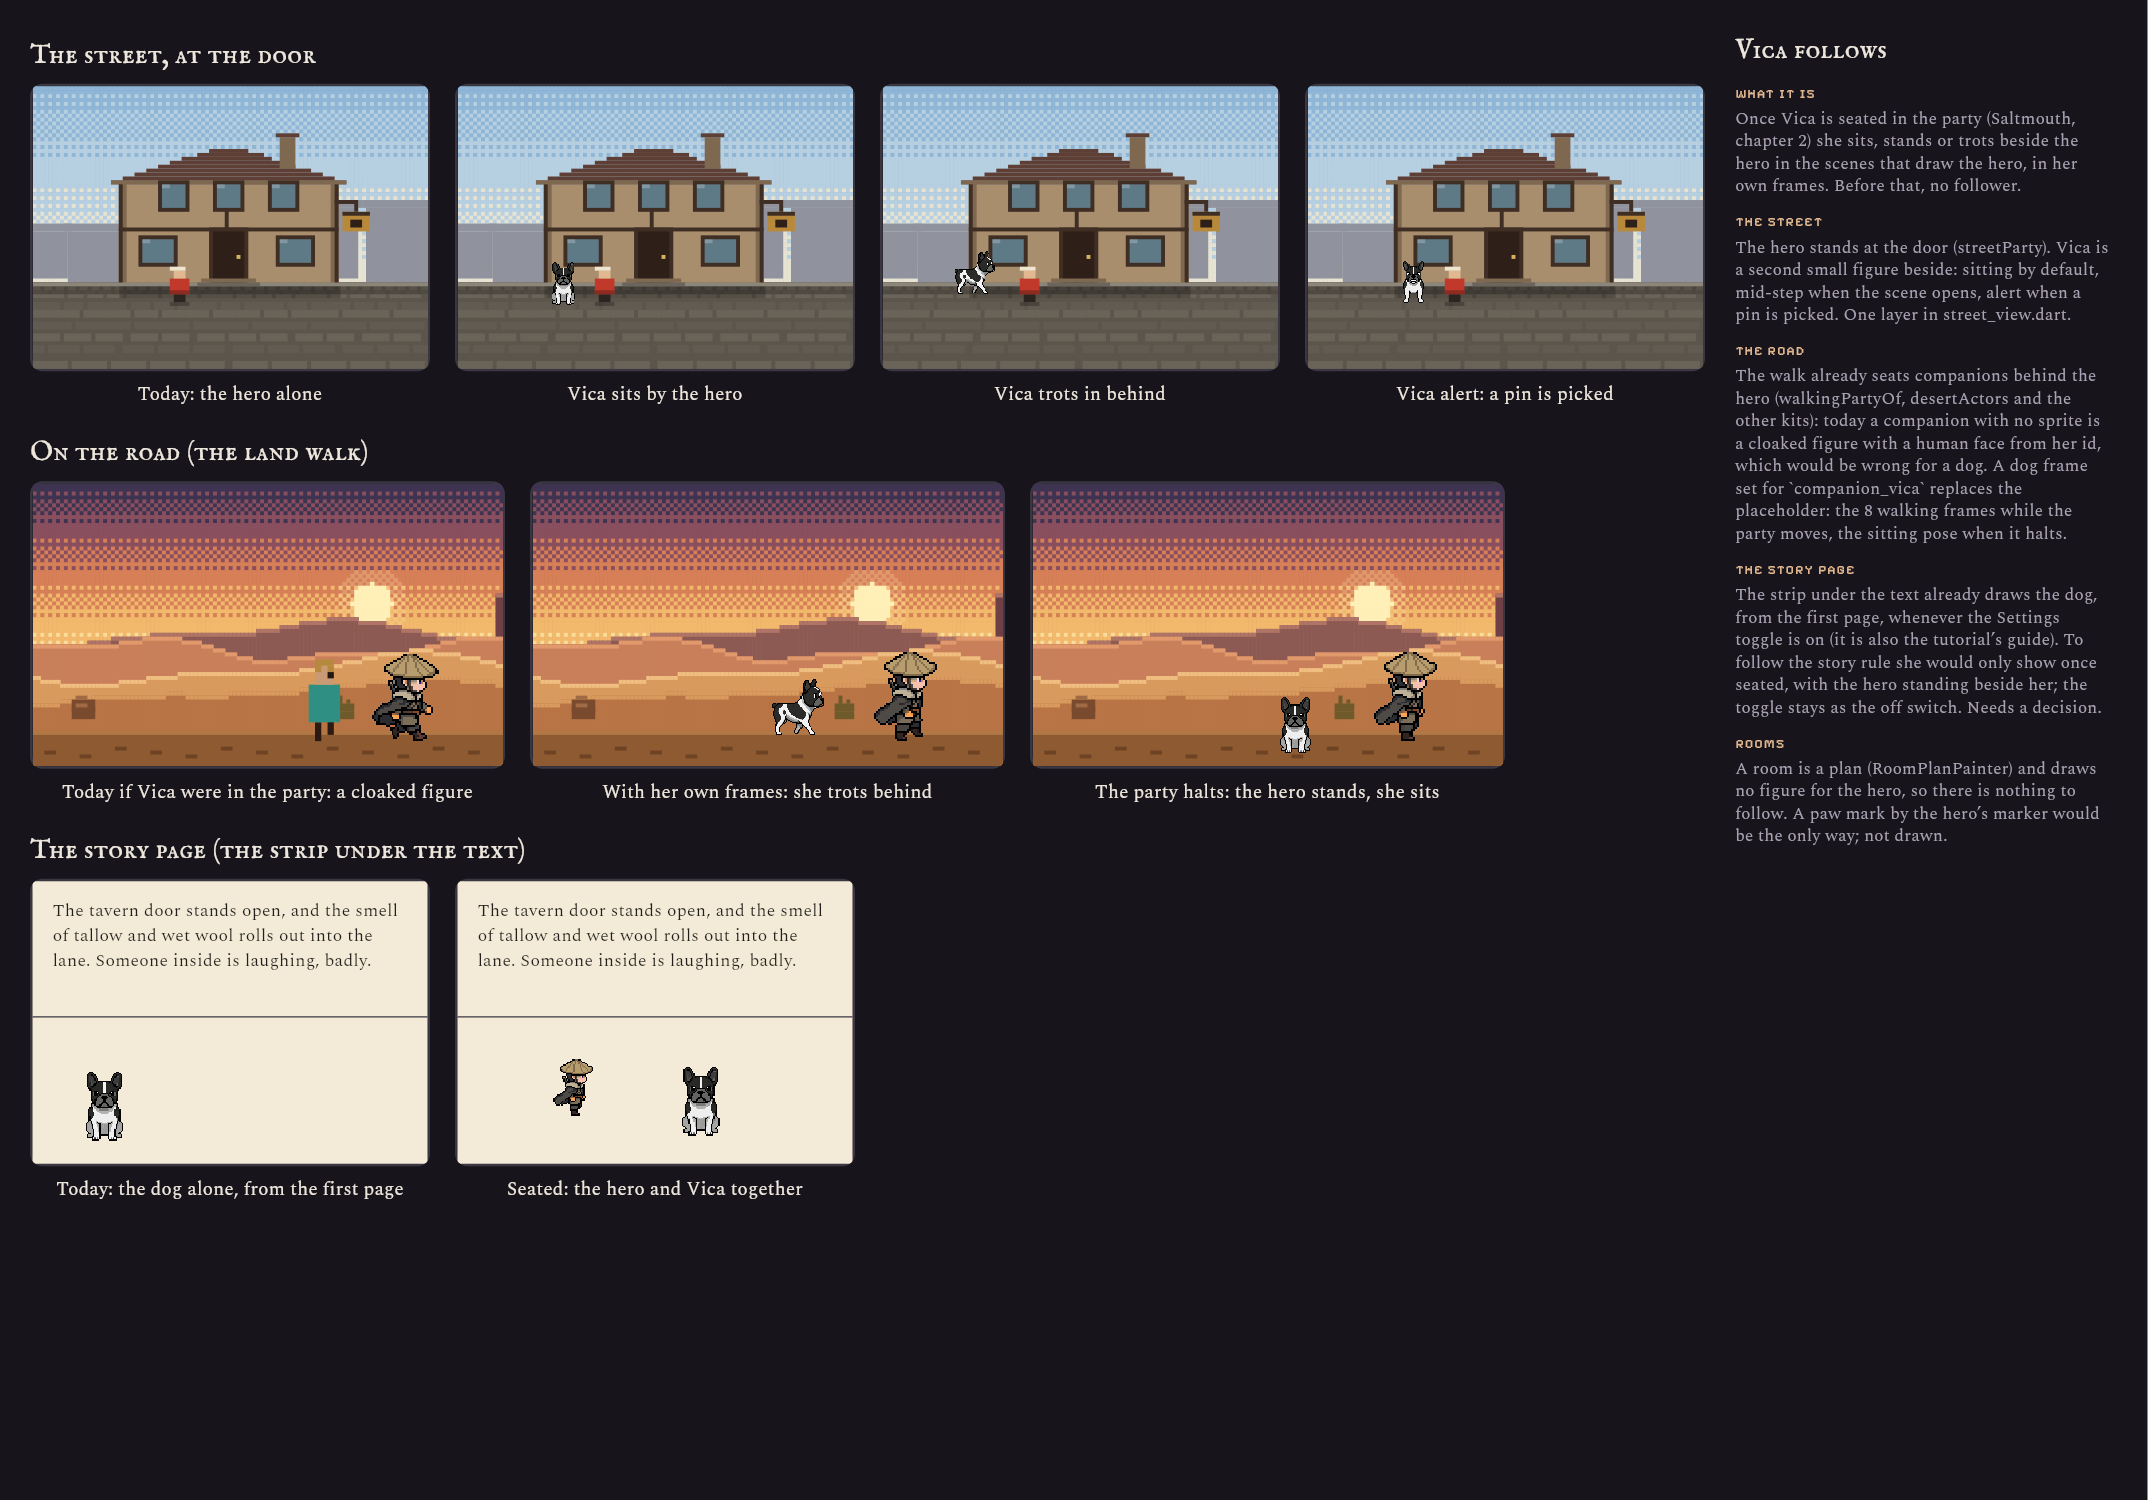
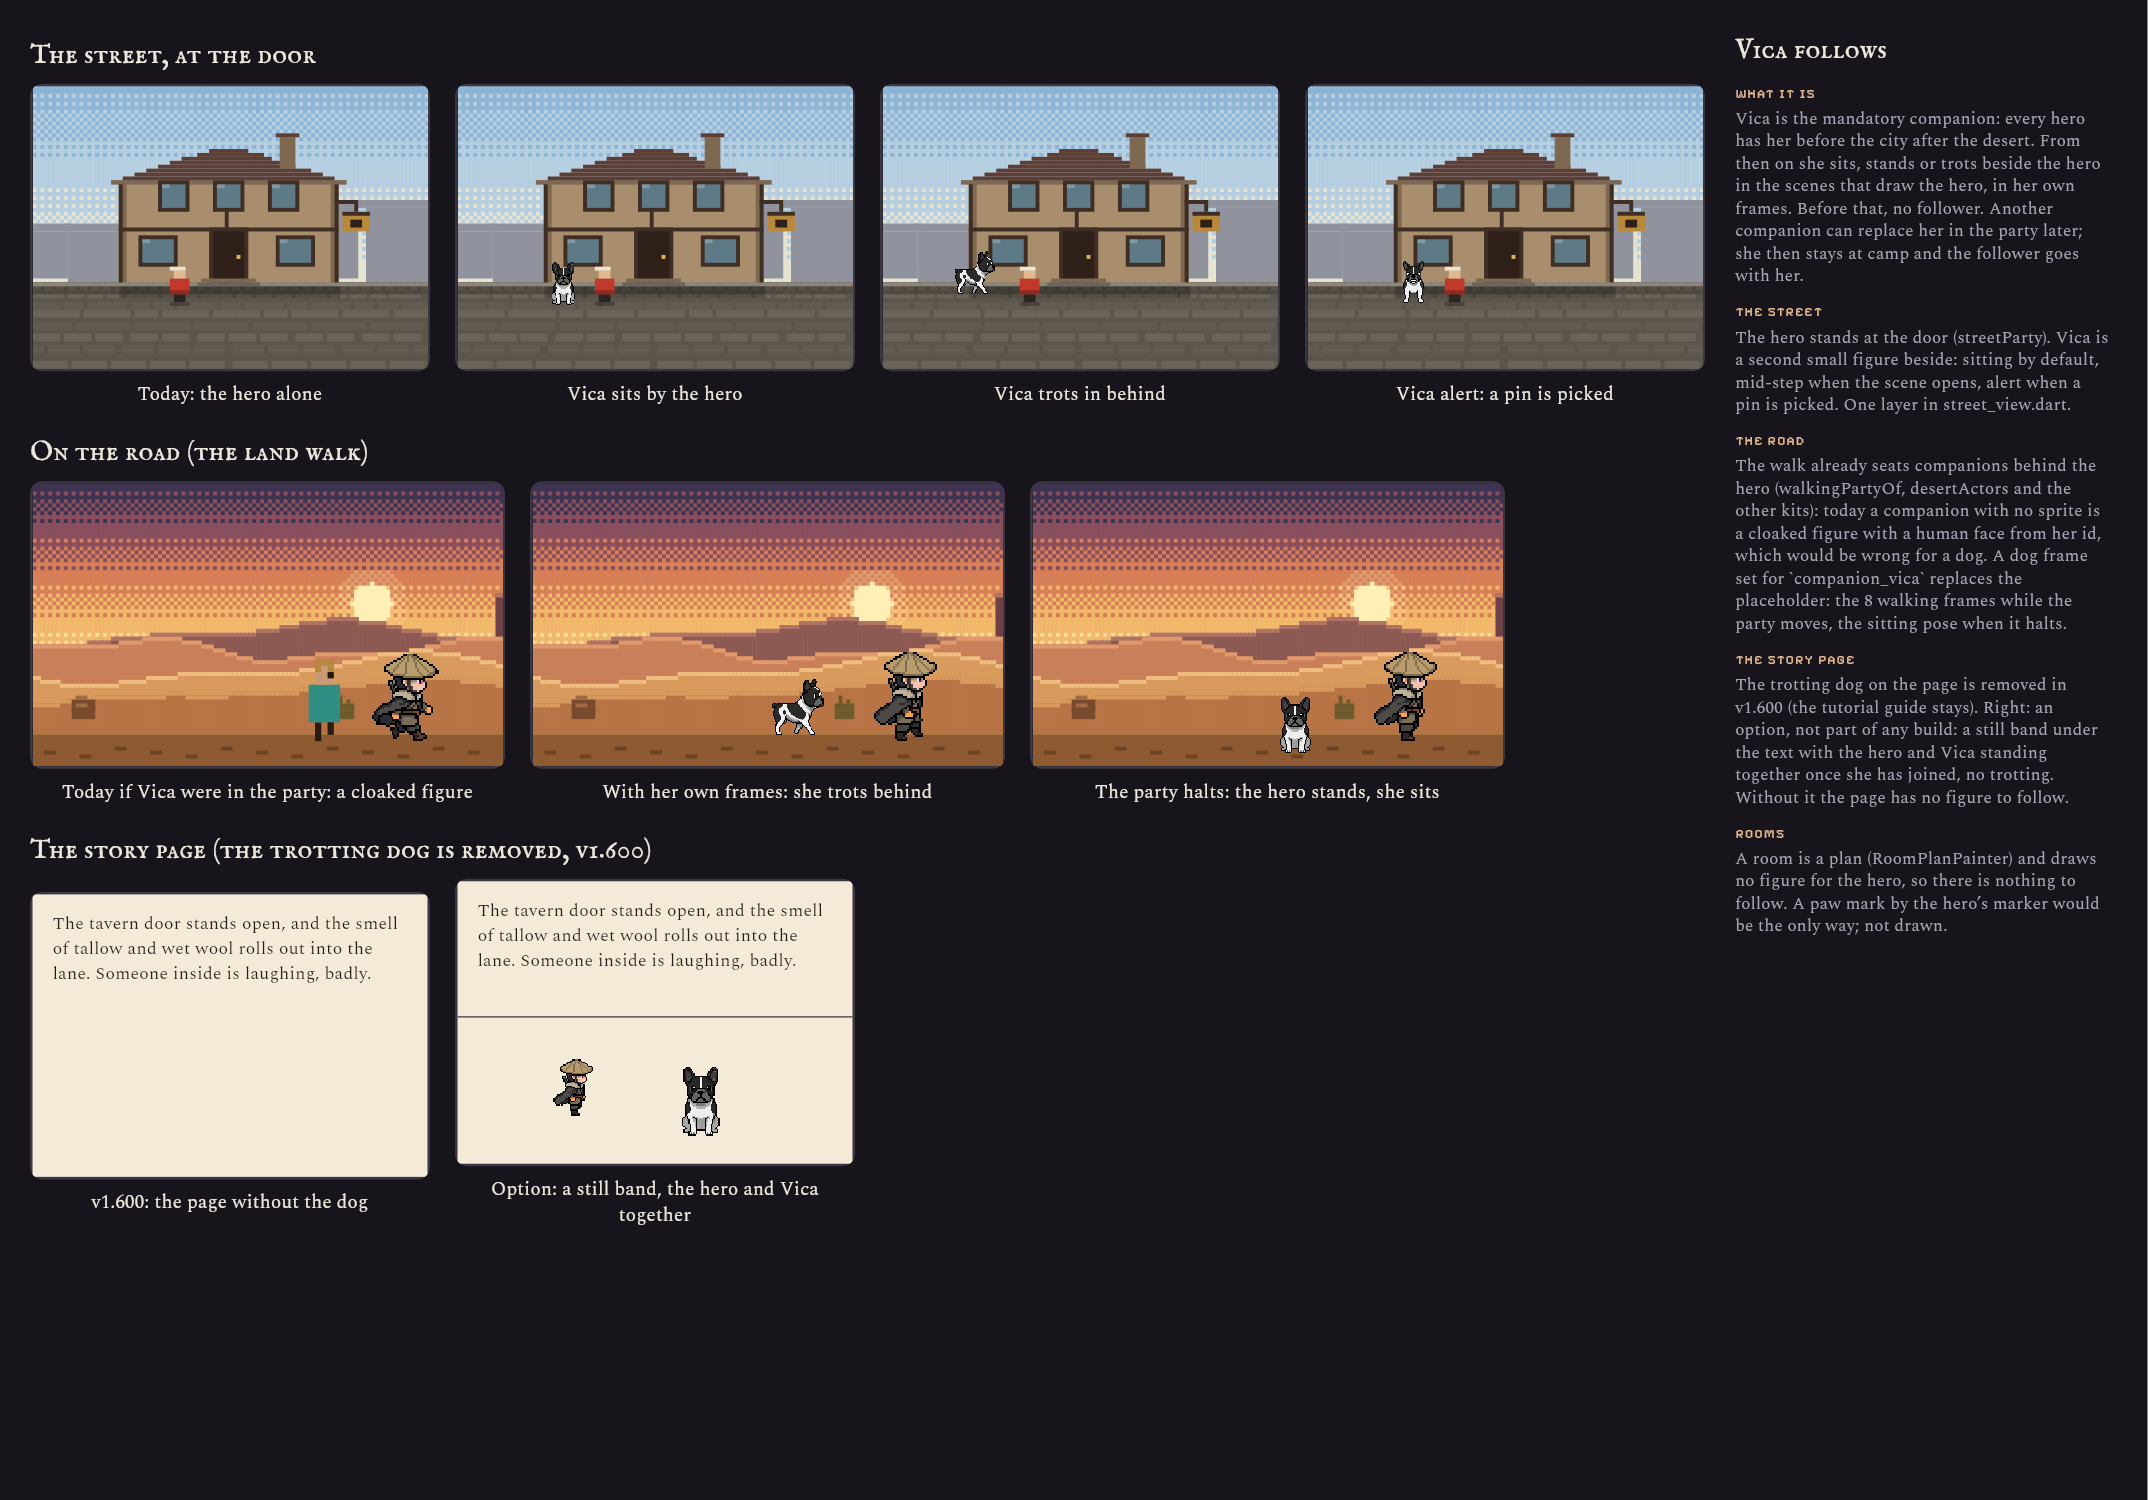
UX: Vica is the mandatory companion in the follower note (the page strip is removed in v1.600)
Claude-Session: https://claude.ai/code/session_01Y8cU3zPWWudNpnZGCrkKEc

diff --git a/test/ux_vica_follow_mock_test.dart b/test/ux_vica_follow_mock_test.dart
@@ -220,45 +220,36 @@ void main() {
                     style: theme.textTheme.bodyMedium),
               ),
             ),
-            Container(
-              height: 118,
-              width: double.infinity,
-              decoration: BoxDecoration(
-                border: Border(top: BorderSide(color: const Color(0xFF3A3642))),
-              ),
-              child: proposed
-                  ? Stack(children: [
-                      Positioned(
-                        left: 40,
-                        bottom: 0,
-                        child: RawImage(
-                            image: dog.hero,
-                            width: dog.hero.width * 2.6,
-                            height: dog.hero.height * 2.6,
-                            filterQuality: FilterQuality.none),
-                      ),
-                      Positioned(
-                        left: 40 + dog.hero.width * 2.6 + 2,
-                        bottom: 10,
-                        child: RawImage(
-                            image: dog.sit,
-                            width: dog.sit.width * 1.36,
-                            height: dog.sit.height * 1.36,
-                            filterQuality: FilterQuality.none),
-                      ),
-                    ])
-                  : Stack(children: [
-                      Positioned(
-                        left: 14,
-                        bottom: 6,
-                        child: RawImage(
-                            image: dog.sit,
-                            width: dog.sit.width * 1.36,
-                            height: dog.sit.height * 1.36,
-                            filterQuality: FilterQuality.none),
-                      ),
-                    ]),
-            ),
+            if (proposed)
+              Container(
+                height: 118,
+                width: double.infinity,
+                decoration: const BoxDecoration(
+                  border: Border(top: BorderSide(color: Color(0xFF3A3642))),
+                ),
+                child: Stack(children: [
+                  Positioned(
+                    left: 40,
+                    bottom: 0,
+                    child: RawImage(
+                        image: dog.hero,
+                        width: dog.hero.width * 2.6,
+                        height: dog.hero.height * 2.6,
+                        filterQuality: FilterQuality.none),
+                  ),
+                  Positioned(
+                    left: 40 + dog.hero.width * 2.6 + 2,
+                    bottom: 10,
+                    child: RawImage(
+                        image: dog.sit,
+                        width: dog.sit.width * 1.36,
+                        height: dog.sit.height * 1.36,
+                        filterQuality: FilterQuality.none),
+                  ),
+                ]),
+              )
+            else
+              const SizedBox(height: 118),
           ]),
         );
 
@@ -308,20 +299,20 @@ void main() {
                       walk(moving: false, dogSprite: true)),
                 ]),
                 const SizedBox(height: 16),
-                _title('The story page (the strip under the text)'),
+                _title('The story page (the trotting dog is removed, v1.600)'),
                 Row(children: [
-                  _panel('Today: the dog alone, from the first page', width,
-                      230, pageStrip(false)),
+                  _panel('v1.600: the page without the dog', width, 230,
+                      pageStrip(false)),
                   const SizedBox(width: 20),
-                  _panel('Seated: the hero and Vica together', width, 230,
-                      pageStrip(true)),
+                  _panel('Option: a still band, the hero and Vica together',
+                      width, 230, pageStrip(true)),
                 ]),
               ]),
               const SizedBox(width: 24),
               const NotesPanel(title: 'Vica follows', sections: [
                 (
                   'What it is',
-                  'Once Vica is seated in the party (Saltmouth, chapter 2) she sits, stands or trots beside the hero in the scenes that draw the hero, in her own frames. Before that, no follower.'
+                  'Vica is the mandatory companion: every hero has her before the city after the desert. From then on she sits, stands or trots beside the hero in the scenes that draw the hero, in her own frames. Before that, no follower. Another companion can replace her in the party later; she then stays at camp and the follower goes with her.'
                 ),
                 (
                   'The street',
@@ -333,7 +324,7 @@ void main() {
                 ),
                 (
                   'The story page',
-                  'The strip under the text already draws the dog, from the first page, whenever the Settings toggle is on (it is also the tutorial’s guide). To follow the story rule she would only show once seated, with the hero standing beside her; the toggle stays as the off switch. Needs a decision.'
+                  'The trotting dog on the page is removed in v1.600 (the tutorial guide stays). Right: an option, not part of any build: a still band under the text with the hero and Vica standing together once she has joined, no trotting. Without it the page has no figure to follow.'
                 ),
                 (
                   'Rooms',

diff --git a/docs/proposals/vica-follows.md b/docs/proposals/vica-follows.md
@@ -5,8 +5,9 @@ Picture: [vica-follows.png](../ux-shots/vica-follows.png). Mock test:
 land walk's side view, the story page's strip); only the follower layer is drawn in, from the
 dog's own frames (`assets/visuals/companion/dog_companion_animations`: 8 walking frames, the
 sitting pose, the bark). The user's rule, as the manager relayed it: the dog is **Vica**, the same
-dog as in the tutorial; she follows the hero once she is seated in the party (Saltmouth, chapter 2),
-none before. Pictures only.
+dog as in the tutorial; she is the **mandatory companion** (every hero gets her before the city after
+the desert, Narrative pins the scene; other companions replace her in the party later) and she follows
+the hero's sprite once she has joined, none before. Pictures only.
 
 ## Which components draw the hero today
 
@@ -15,7 +16,7 @@ none before. Pictures only.
 | **Street** (journey door scene; intro memories draw it with `party: false`) | `streetParty` in `lib/widgets/street_view/street_view.dart`, the actors layer of `StreetViewScene`: a 6x9 pixel figure with the red cloak and pale hat, beside the door. | procedural pixels |
 | **Land walk** (desert, cliffs, fen, frost, ruins kits) | `desertActors` and the other kits' actors layers; the ronin is `SideSprites.paint` (`side_sprite.dart`, `assets/visuals/walker`). | the user's ronin sprite |
 | **Ship deck** | `deck_crew.dart`: cloaked figures, the hero with a pale hat. | procedural pixels |
-| **Story page** | no hero. `WalkingCompanionStrip` (`lib/widgets/walking_companion_strip.dart`, in `story_player_screen.dart`) draws **the dog alone**, sitting at the left edge, walking off and back on each page. | the dog's frames |
+| **Story page** | no hero. The strip that drew the trotting dog (`WalkingCompanionStrip`) is **removed in v1.600** (the tutorial guide stays), so the page has no figure at all. | none |
 | **Rooms** | a plan (`RoomPlanPainter`), no figures. | none |
 
 ## What it takes
@@ -31,27 +32,22 @@ none before. Pictures only.
    get today (left picture of the road row). `hasWalkSprite('companion_vica')` returns true and
    the follower layer replaces the placeholder in each kit's actors layer.
 4. **Deck**: the same layer in `deck_crew.dart` if she should stand on the Eel's deck.
-5. **Story page**: see the question below.
+5. **Story page**: nothing to follow once the strip is gone; see the option below.
 6. **Assets**: the walking frames exist for east, west, north and south; only east is used. A west
    cycle would let her face the hero when the walk turns back. Each leaf folder needs its entry in
    `pubspec.yaml`.
 7. **Gate**: show her only when `activeAllyIds` holds her id and she is not lost or departed
-   (the same test as `walkingPartyOf`); the Settings toggle for the page strip stays an off switch.
+   (the same test as `walkingPartyOf`). When a stronger companion takes her seat she stays at camp,
+   and so does the follower.
 
 No logic or data is needed from Core beyond her companion id (`vica` once Narrative renames the
 dog). Size: one new file, about 80 lines, and one line in each scene.
 
-## Question: the story page strip
+## Option: a still band on the story page
 
-Today the strip shows the dog from the first page of the game, because it is the tutorial's guide
-and the Settings toggle is on by default. The rule says none before Saltmouth. Options:
-
-- **A**: keep the strip as the tutorial dog until the tutorial ends, then hide it until Vica is
-  seated; then show her with the hero beside her (right picture of the page row).
-- **B**: leave the strip as it is (the dog is the page's mascot, not Vica) and let Vica follow only
-  in the street and the walk.
-
-I lean to A: one dog, one story.
+With the trotting dog gone, the page has no figure. If a figure is wanted, a still band under the text
+with the hero and Vica standing together once she has joined (right picture of the page row): no
+trotting, no toggle. It is not part of any build; say if you want it.
 
 ## Rooms
 
